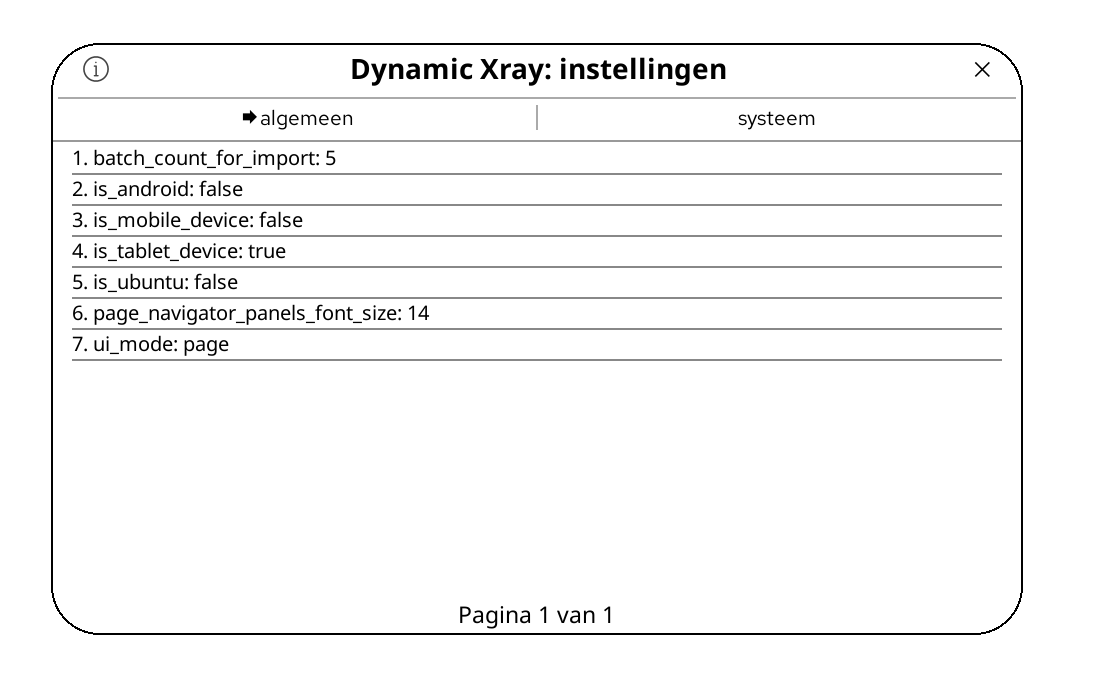
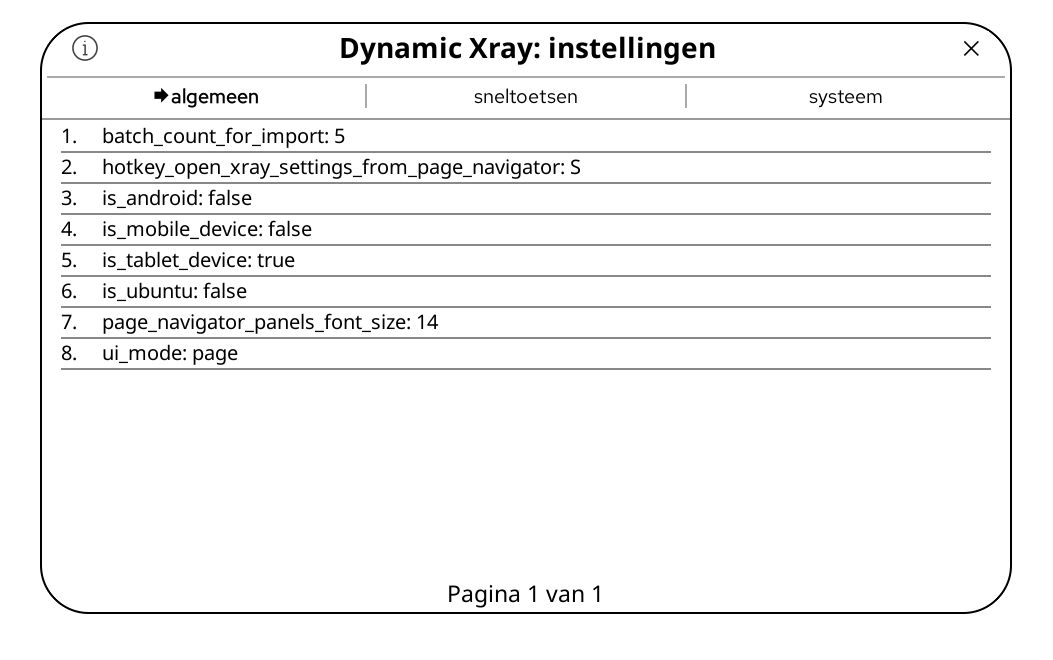
Make some DX hotkeys configurable by the user

diff --git a/README.md b/README.md
@@ -10,6 +10,7 @@ A KOReader plugin to view "xray items", i.e. user defined explanations of person
 * The advantage of the DX approach is that the user can dynamically add and modify items or link them to other items; the advantage of the Kindle approach is that it isn't error-prone.
 * DX can produce false hits, because it uses matching of the words in ebook texts to determine whether Xray items are present. For example, DX will be in trouble if there are two or more persons with the same first name in a book; DX won't be able to differentiate between them. But in about 95% of cases, the matches shown will be correct.
 * All interface texts can be translated by the user.
+* Some hotkeys for buttons in DX dialogs can be configured by the user. The Page Navigator can be called while reading an ebook, with Shift+X.
 
 ## Table of contents in this readme
 - [Use cases](#use-cases)
@@ -156,6 +157,12 @@ DX uses mostly buttons with only icons, so without explanatory labels. However, 
 
 ![09 Manage XraySettings in a tabbed interface.](images/09-manage-xray-settings.png)
 09 Manage XraySettings in a tabbed interface.
+
+![09b Manage DX hotkeys.](images/09b-user-configurable-dx-hotkeys.png)
+09b Manage DX hotkeys.
+
+![09c Modify a DX hotkey.](images/09c-modify-a-dx-hotkey.png)
+09c Modify a DX hotkey
 
 ![10 Interface translations list](images/10-interface-translations-list.png)
 09b Interface translations list
